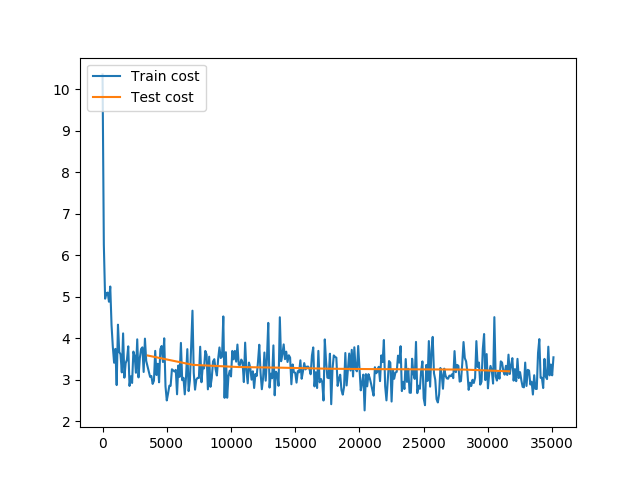
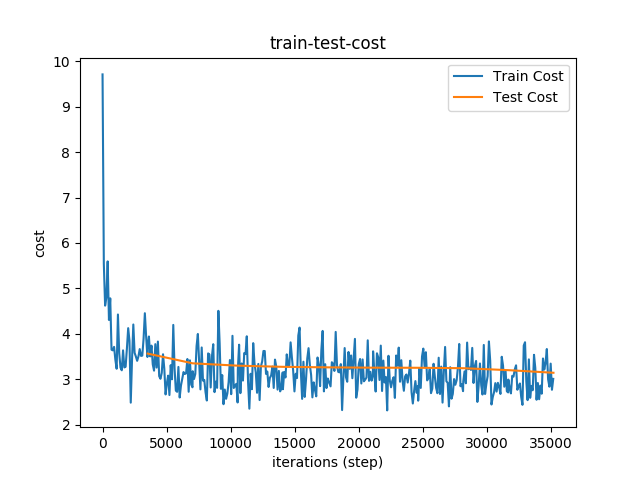
修改绘图模块

diff --git a/lesson7/train_with_paddle.py b/lesson7/train_with_paddle.py
@@ -22,9 +22,10 @@ Date:    2017/11/29
 import matplotlib
 
 matplotlib.use('Agg')
+import numpy as np
 import paddle.v2 as paddle
 import os
-from paddle.v2.plot import Ploter
+import matplotlib.pyplot as plt
 
 with_gpu = os.getenv('WITH_GPU', '0') != '0'
 
@@ -191,6 +192,34 @@ def netconfig():
 
     return data
 
+	
+# 展示模型训练测试曲线
+def plot_costs(train_costs, train_step, test_costs, test_step):
+    """
+    利用costs展示模型的训练测试曲线
+    Args:
+        train_costs -- 记录了训练过程的cost变化的list，每100次迭代记录一次
+        train_step -- 记录了训练过程迭代次数的list
+        test_costs -- 记录了测试过程的cost变化的list，每3500次迭代记录一次
+        test_step -- 记录了测试过程迭代次数的list
+    Return:
+    """
+    train_costs = np.squeeze(train_costs)
+    test_costs = np.squeeze(test_costs)
+
+    plt.figure()
+    plt.plot(train_step,train_costs,label="Train Cost")
+    plt.plot(test_step,test_costs,label="Test Cost")
+
+    plt.ylabel('cost')
+    plt.xlabel('iterations (step)')
+    plt.title("train-test-cost")
+
+    plt.legend()
+    plt.show()
+    plt.savefig('train_test_cost.png')
+
+	
 
 def main():
     """
@@ -205,6 +234,12 @@ def main():
     # 配置网络结构
     inference, cost, parameters, feeding = netconfig()
 
+    # 记录cost和step
+    train_costs = []
+    test_costs = []
+    train_step = []
+    test_step = []
+
     """
     定义模型训练器，配置三个参数
     cost:成本函数
@@ -215,37 +250,26 @@ def main():
         cost=cost,
         parameters=parameters,
         update_equation=paddle.optimizer.Adam(learning_rate=1e-4))
-
-    """
-    绘图相关设置:
-        通过Ploter(train_title, test_title)函数初始化绘图函数，
-            train_title和test_title表明要绘制的曲线的题注
         
-    """
-    # 绘制cost曲线所做的初始化设置
-    train_title_cost = "Train cost"
-    test_title_cost = "Test cost"
-    cost_ploter = Ploter(train_title_cost, test_title_cost)
-
-    def event_handler_plot(event):
+	
+    # 事件处理模块
+    def event_handler(event):
         """
-        事件处理器，可以根据训练过程的信息做相应操作：包括绘图和输出训练结果信息
+        事件处理器，可以根据训练过程的信息作相应操作
         Args:
             event -- 事件对象，包含event.pass_id, event.batch_id, event.cost等信息
         Return:
         """
         global step
         if isinstance(event, paddle.event.EndIteration):
-            # 每训练100次（即100个batch），添加一个绘图点
-            if step % 100 == 0:
-                cost_ploter.append(train_title_cost, step, event.cost)
-                # 绘制cost图像，保存图像为‘train_test_cost.png’
-                cost_ploter.plot('./train_test_cost')
-            step += 1
-            # 每训练100个batch，输出一次训练结果信息
+            # 每100个batch输出一条记录，分别是当前的迭代次数编号，batch编号和对应损失值
             if event.batch_id % 100 == 0:
                 print "Pass %d Batch %d Cost %.2f" % (
                     event.pass_id, event.batch_id, event.cost)
+				# 添加训练数据的cost绘图数据
+                train_costs.append(event.cost)
+                train_step.append(step)
+            step += 1
         if isinstance(event, paddle.event.EndPass):
             # 保存参数至文件
             with open('params_pass_%d.tar' % event.pass_id, 'w') as f:
@@ -257,25 +281,9 @@ def main():
             print "Test with Pass %d, Cost %f" % (
                 event.pass_id, result.cost)
             # 添加测试数据的cost绘图数据
-            cost_ploter.append(test_title_cost, step, result.cost)
-
-    # 事件处理模块
-    def event_handler(event):
-        """
-        事件处理器，可以根据训练过程的信息作相应操作
-        Args:
-            event -- 事件对象，包含event.pass_id, event.batch_id, event.cost等信息
-        Return:
-        """
-        if isinstance(event, paddle.event.EndIteration):
-            # 每100个batch输出一条记录，分别是当前的迭代次数编号，batch编号和对应损失值
-            if event.batch_id % 100 == 0:
-                print "Pass %d Batch %d Cost %.2f" % (
-                    event.pass_id, event.batch_id, event.cost)
-        if isinstance(event, paddle.event.EndPass):
-            # 保存参数至文件
-            with open('params_pass_%d.tar' % event.pass_id, 'w') as f:
-                trainer.save_parameter_to_tar(f)
+            test_costs.append(result.cost)
+            test_step.append(step)
+    
 
     """
     模型训练
@@ -295,10 +303,15 @@ def main():
             paddle.reader.shuffle(
                 paddle.dataset.movielens.train(), buf_size=8192),
             batch_size=256),
-        event_handler=event_handler_plot,
+        event_handler=event_handler,
         feeding=feeding,
         num_passes=10)
 
+
+    # 展示学习曲线
+    plot_costs(train_costs, train_step, test_costs, test_step)
+
+    
 
 if __name__ == '__main__':
     main()
